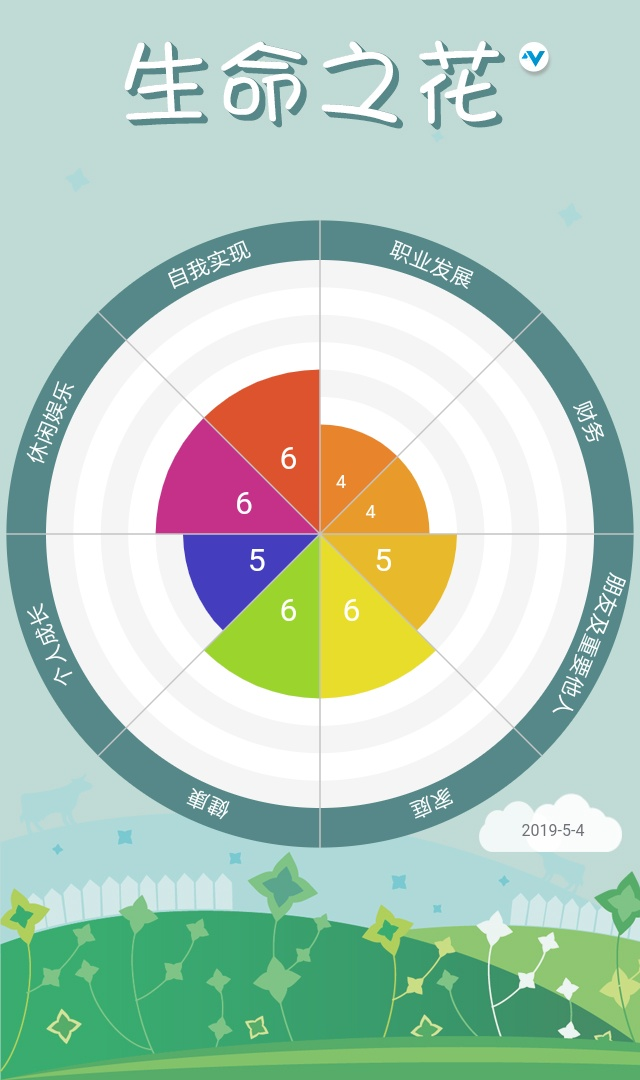
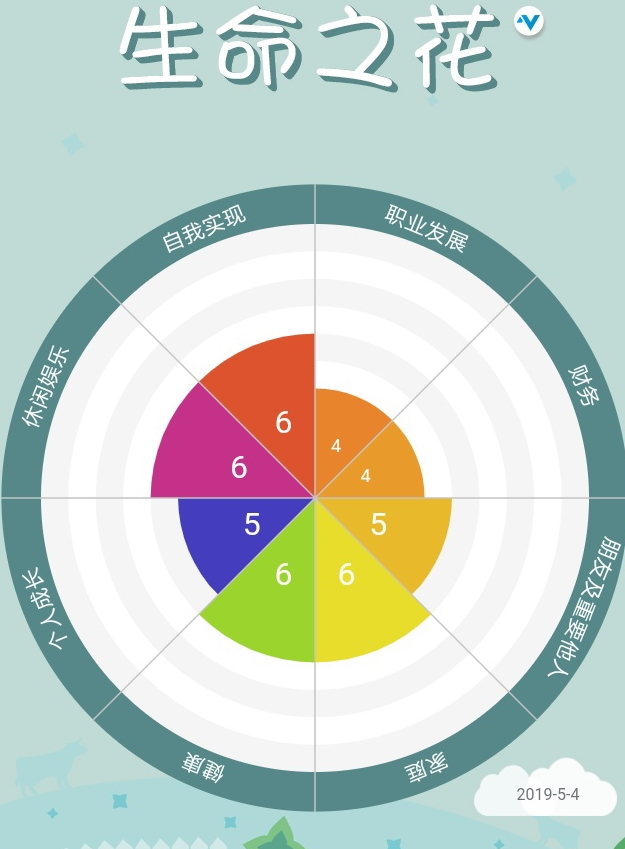
5月目标完成

diff --git a/_posts/001_2019-My-Goals/2019-5-4-May-Goal.md b/_posts/001_2019-My-Goals/2019-5-4-May-Goal.md
@@ -6,9 +6,9 @@ description: 回顾和月目标
 keywords: 月目标, 5月月目标
 changelog: 2019-5-3 20:21:45
 ---
+![life-flower](/images/life-flower/longmao.gif)
 
 ### 一、回顾过去，四月份回顾与分析
-
 
 #### （一）对上个月的目标满意度进行分析
 >领域： 工作、 家庭、 生活、 身体等
@@ -19,34 +19,92 @@ changelog: 2019-5-3 20:21:45
 >客观化：
 >>请使用0-10分>进行打分， 10分为特别满意， 0分为特别不满意， 你的满意度为几分？
 
-职业发展: (X分)
-财务: ( X分)
-朋友和重要的人: (X分)
-家庭: (X分)
-健康: (X分)
-休闲娱乐: ( X分)
-个人成长: (X分)
-自我实现: ( X分)
+- 职业发展: (4分)
+- 财务: ( 4分)
+- 朋友和重要的人: (5分)
+- 家庭: (6分)
+- 健康: (6分)
+- 休闲娱乐: ( 6分)
+- 个人成长: (5分)
+- 自我实现: ( 6分)
 
 上月生命之花:
-
-（此处插入图片）
 ![life-flower](/images/life-flower/190504.jpg)
 
 #### （二）对更高维度目标达成情况的分析
 
+上个月完成两个主题阅读：
+- 主题阅读1
+  - [关于转行和职业规划](https://shimo.im/docs/xLZEJx79PSQjbQP3/)
+  - 回顾古典老师的职场MVP课程(我的幕布笔记)
+
+
+- 关于人的内心
+  - [再读《了凡四训》](https://jiajialing.github.io/2019/04/30/liao-fan-si-xun/)
+  - [《道德经》](https://www.bilibili.com/video/av44355122?from=search&seid=17755662800369553049)
+  -  [王阳明传奇-知行合一](https://www.bilibili.com/video/av19156453?from=search&seid=16374436146374709635)
 
 #### （三）上月问题分析
-分析上个月中最突出的问题，不要超过3个，并且找出问题发生的原因以及解决方案，并尽可能思考，如果这个解决方案投放之后，这些问题是否会再出现？
+>分析上个月中最突出的问题，不要超过3个，并且找出问题发生的原因以及解决方案，并尽可能思考，如果这个解决方案投放之后，这些问题是否会再出现？
 
-问题描述
-主要原因
-解决方案
-
-#### （四） 一条感悟
-上个月你收获的最大感悟是什么？至少写一条
+**问题描述**
+>其实主要是职业的困惑，从4月初匆忙的结束一份短命的新工作，再次失业。突然觉得自己好像什么都没有，看一看招聘网站上的介绍，感觉好像都可以做，但是又感觉什么都做不了，这其实是我人生中裸辞。最大的问题就是职业的迷茫。
+>
+>
 
 
+**主要原因**
+
+>主要是工作的意义没有找到，从毕业1年多踏入赚快钱的行业，让我长期的掉入短期收入陷阱。短期收益陷阱可怕之处就在于一种一夜暴富的心态。
+>
+>还有外界的原因，整个时代的年轻人其实都很焦虑，当看到同龄人真正的走在自己的前面的前面的时候，焦虑就产生了，想着尽快的完成自己想要完成的东西，想赚更多的钱，用这些钱去换得自我的时间自由——再也不用为工作出卖自己的时间了。
+>
+>还有就是自己在见过某些人在短的时间内得到大量财富之后的不甘，感觉自己应该也可以，于是就会在很多的投机陷阱面前，铤而走险，最后就像同侪伙伴说我的，掉进钱眼里了。
+
+**解决方案**
+
+>1 **修心** 通过阅读《了凡四训》《道德经》和阳明心学再加平日的自我觉察修炼内心，要真正做到内心不为外物所动真的是极其艰难的一件事，不过这是一件回报率百分之一万好处的事情，需要时时觉察，时时修炼。
+>
+>修心是一个向内求的过程，基于我的假设：人是没有办法认知真正的真实的世界的，人看到的世界其实本身是由ta的自我系统（三观）处理过的世界。这个世界和真实的世界相比差距极大。而人认为的世界才是自己自己感觉到的真实世界。
+>
+>因此，要向内求，从内去改变自己所认知的世界，当自我认知的世界改变的时候，外界的世界也会随着改变。向内求，求的是自我的：**笃定 精诚 执与无执念 知行** 一系列的事物。**修炼自我内心的本身，其实也是在修炼自我认知的世界。**
+>
+>2 **与外界互动** 通过阅读一些职业生涯的视频和主动的面试不同行业的岗位，其发现内心和世界的契合点，根据自身的优势和天赋，找到行业和职业的最佳切入口。
+>
+>我想，即便是转行也并没有什么，要去窥见所有行业的底层逻辑，在底层逻辑交叉的地方。这个地方更能有效的得出行业本身的逻辑，站在行业的维度去看公司和职业本身就是降维打击。
+>
+>《远见》和 回顾古典老师的职场MVP课程就很好的启发了我，我找到自己能够切入的地方。
+
+
+#### （四） 6条感悟
+
+
+**1 要有从来的勇气和信心，面对任何情况，心不动是一种很高的境界。**
+
+**2 我的资源是充足的，所以在遇到任何问题时，都可以灵活的选择三种以上的有效解决方案，并让自己做到最好。**
+
+**3 想清楚 做到底 有成果 出作品**
+
+**4 修炼内心要觉察，从日常的事物中去察觉自己，修炼自己的觉知能力。**
+
+**5 务要日日知非，日日改过；一日不知非，即一日安于自是；一日无过可改，即一日无步可进；天下聪明俊秀不少，所以德不加修、业不加广者，只为因循二字，耽搁一生。**
+
+**日日不知非，便日日安于是，蹉跎岁月，如逆水行舟，不进反退矣，德才不进，业止于前，及其少年远逝，华发催生，抚须喟叹此生须臾也，将复何及。**
+
+
+**6 今日歌**
+
+- 今日复今日， 今日何其少！
+
+- 今日又不为，此事何时了？
+
+- 人生百年几今日，今日不为真可惜！
+
+- 若言姑待明朝至， 明朝又有明朝事。
+
+- 为君聊赋《今日诗》， 努力请从今日始！
+
+**7 我步入丛林，因为我希望生活有意义，我希望活得深刻，吸取生命中所有精华，把非生命的一切都击溃，以免当我生命终结，发现自己从没有活过！**
 
 
 ---
@@ -61,9 +119,9 @@ changelog: 2019-5-3 20:21:45
 >
 >制定目标的时候是 x 月 x 日，本月可用天数为：
 
-本月起始：2018- x- x 至 2018- x- x，共四周-2天=x天时间
+本月起始：2019-05-06 至 2019-06-01，共四周(总25天)-2天=x天时间
 
-出行安排：1月5日、6日、7日、8日，出差至武汉，共4天；
+出行安排：5月15日、16日至广州，共2天；
 
 去除周日：1月14日、1月21日，共2天；
 
@@ -71,31 +129,67 @@ changelog: 2019-5-3 20:21:45
 
 ##### ⑵ 每天我的时间分布为
 
+其实每天玩手机的时间太多，我需要减少这类损耗。
+
+从现在开始记录自己的时间，时间颗粒度为半个小时一次。
+6.00-6.30 起床，确定今天要做的事情
+6.30-7.00
+7.30-8.00
+8.00-8.30
+8.30-9.00
+9.00-9.30
+9.30-10.00
+10.30-11.00
+11.00-11.30
+11.30-12.00
+12.00-12.30
+12.30-13.00
+13.00-13.30
+13.30-14.00
+14.00-14.30
+14.30-15.00
+15.00-15.30
+15.30-16.00
+16.00*16.30
+16.30-17.00
+17.00-17.30
+17.30-18.00
+18.00-18.30
+18.30-19.30
+19.30-20.00
+20.00-20.30
+20.30-21.00
+21.00-21.30
+21.30-22.00
+22.30-23.00 复盘一下，睡觉
+
 生活必须（吃、行、收拾）：1.5小时
 睡觉：7小时
 锻炼：1小时
-陪孩子：1.5小时
 反思：1小时
 放空：1小时
 冗余时间：1小时
-价值创造（精进）:
+当月价值创造（精进）:8小时
+
 
 ##### ⑶ 本月价值时间 = 价值创造时间×可用天数
+本月价值时间 = 10 * 15 = 150个小时
 
 #### （二）全月情况预判
 ##### ⑴ 自身状态情况
+我的情况，还挺好的，状态需要调整，得自己换个学习的环境。
 
 ##### ⑵ 外部环境情况
+没有什么太多的状况，主要是要去外面多看看多跑一跑。还有就是要为去广州的求职做好一些准备的工作。
 
 #### （三）根据价值时间系数估算价值时间
 
-按照我当下的状态，要为价值创造的时间再乘以0.8的效率系数，也就是每天用来价值创造的时间在x小时
+按照我当下的状态，要为价值创造的时间再乘以0.8的效率系数，也就是每天用来价值创造的时间在8小时
 
 本月的价值创造时间为：5.6 X 17 = 95小时
 
 #### （四）安排日程表的任务
-
-日程添加至时光序中
+日程添加至[时光序](http://www.shiguangxu.com)
 
 
 ---
@@ -103,11 +197,26 @@ changelog: 2019-5-3 20:21:45
 ### 三、规划重点任务
 
 #### （一）确定本月重点任务
+- 系统思维类主题阅读——三篇读书万字笔记
+- 2019年6月1日python进阶阶段完成
 
 #### （二）确定任务成果及时间
+- 主题阅读任务
+  - 《如何系统思考》阅读
+  - 《系统思考》
+  - 《思维力：高效的系统思维》
+- python进阶任务
+  - 基础知识
+  - 实战项目
 
-#### （三）任务分解
+#### （三）任务分解-甘特图（任务进度表）
+- 《如何系统思考》阅读
 
+- 《系统思考》
+
+- 《思维力：高效的系统思维》
+
+![](/images/read-books/system-read.png)
 
 ---
 
@@ -117,18 +226,45 @@ changelog: 2019-5-3 20:21:45
 
 下月生命之花预期:
 
-（此处插入图片）
+![](/images/life-flower/190504yuqi.png)
+- 职业发展: (8分)
+  - 更加坚定而从容，基于价值思维和边际成本递减
+  - 做更难的事，合法赚钱
+
+- 财务: ( 6分)
+  - 提升信息的认知力，利用信息不对称性套利
+
+- 朋友和重要的人: (6分)
+  - 定期问候自己没有常联系的10个朋友
+  - 向自己认可的老师汇报情况
+
+- 家庭: (6分)
+  - 每周给家人打电话1个小时
+  - 更好的察觉自我的情绪
+
+- 健康: (6分)
+  - 每天花至少30分钟主动锻炼身体
+
+- 休闲娱乐: ( 6分)
+  - 去玩的时候，写点感悟和感受记录下来
+  - 更好的拍一下纪念照
+
+- 个人成长: (7分)
+  - 没日有所获，日日知非，日日改过
+  - 时间记录和复盘
+
+- 自我实现: ( 7分)
+ - 完成自己的进阶任务，就能达到七分的满意
 
 #### （二）增加其他想达成的任务
-
-
+ - 暂无
 ---
 
 ### 五、形成计划安排
 （此处插入图片）
-
+![](/images/read-books/May-gant.png)
 
 
 #### ChangeLog
 
-2018-x-x 更新内容 发布 by 博根
+2019年5月9日13:53:07 更新内容 发布 by 何乐

diff --git a/_posts/001_2019-My-Goals/2019-5-4-months_Goal_model.md b/_posts/001_2019-My-Goals/2019-5-4-months_Goal_model.md
@@ -38,9 +38,9 @@ changelog: 2019-5-3 20:31:57
 #### （三）上月问题分析
 分析上个月中最突出的问题，不要超过3个，并且找出问题发生的原因以及解决方案，并尽可能思考，如果这个解决方案投放之后，这些问题是否会再出现？
 
-问题描述
-主要原因
-解决方案
+- **问题1描述**
+- **主要原因**
+- **解决方案**
 
 #### （四） 一条感悟
 上个月你收获的最大感悟是什么？至少写一条
